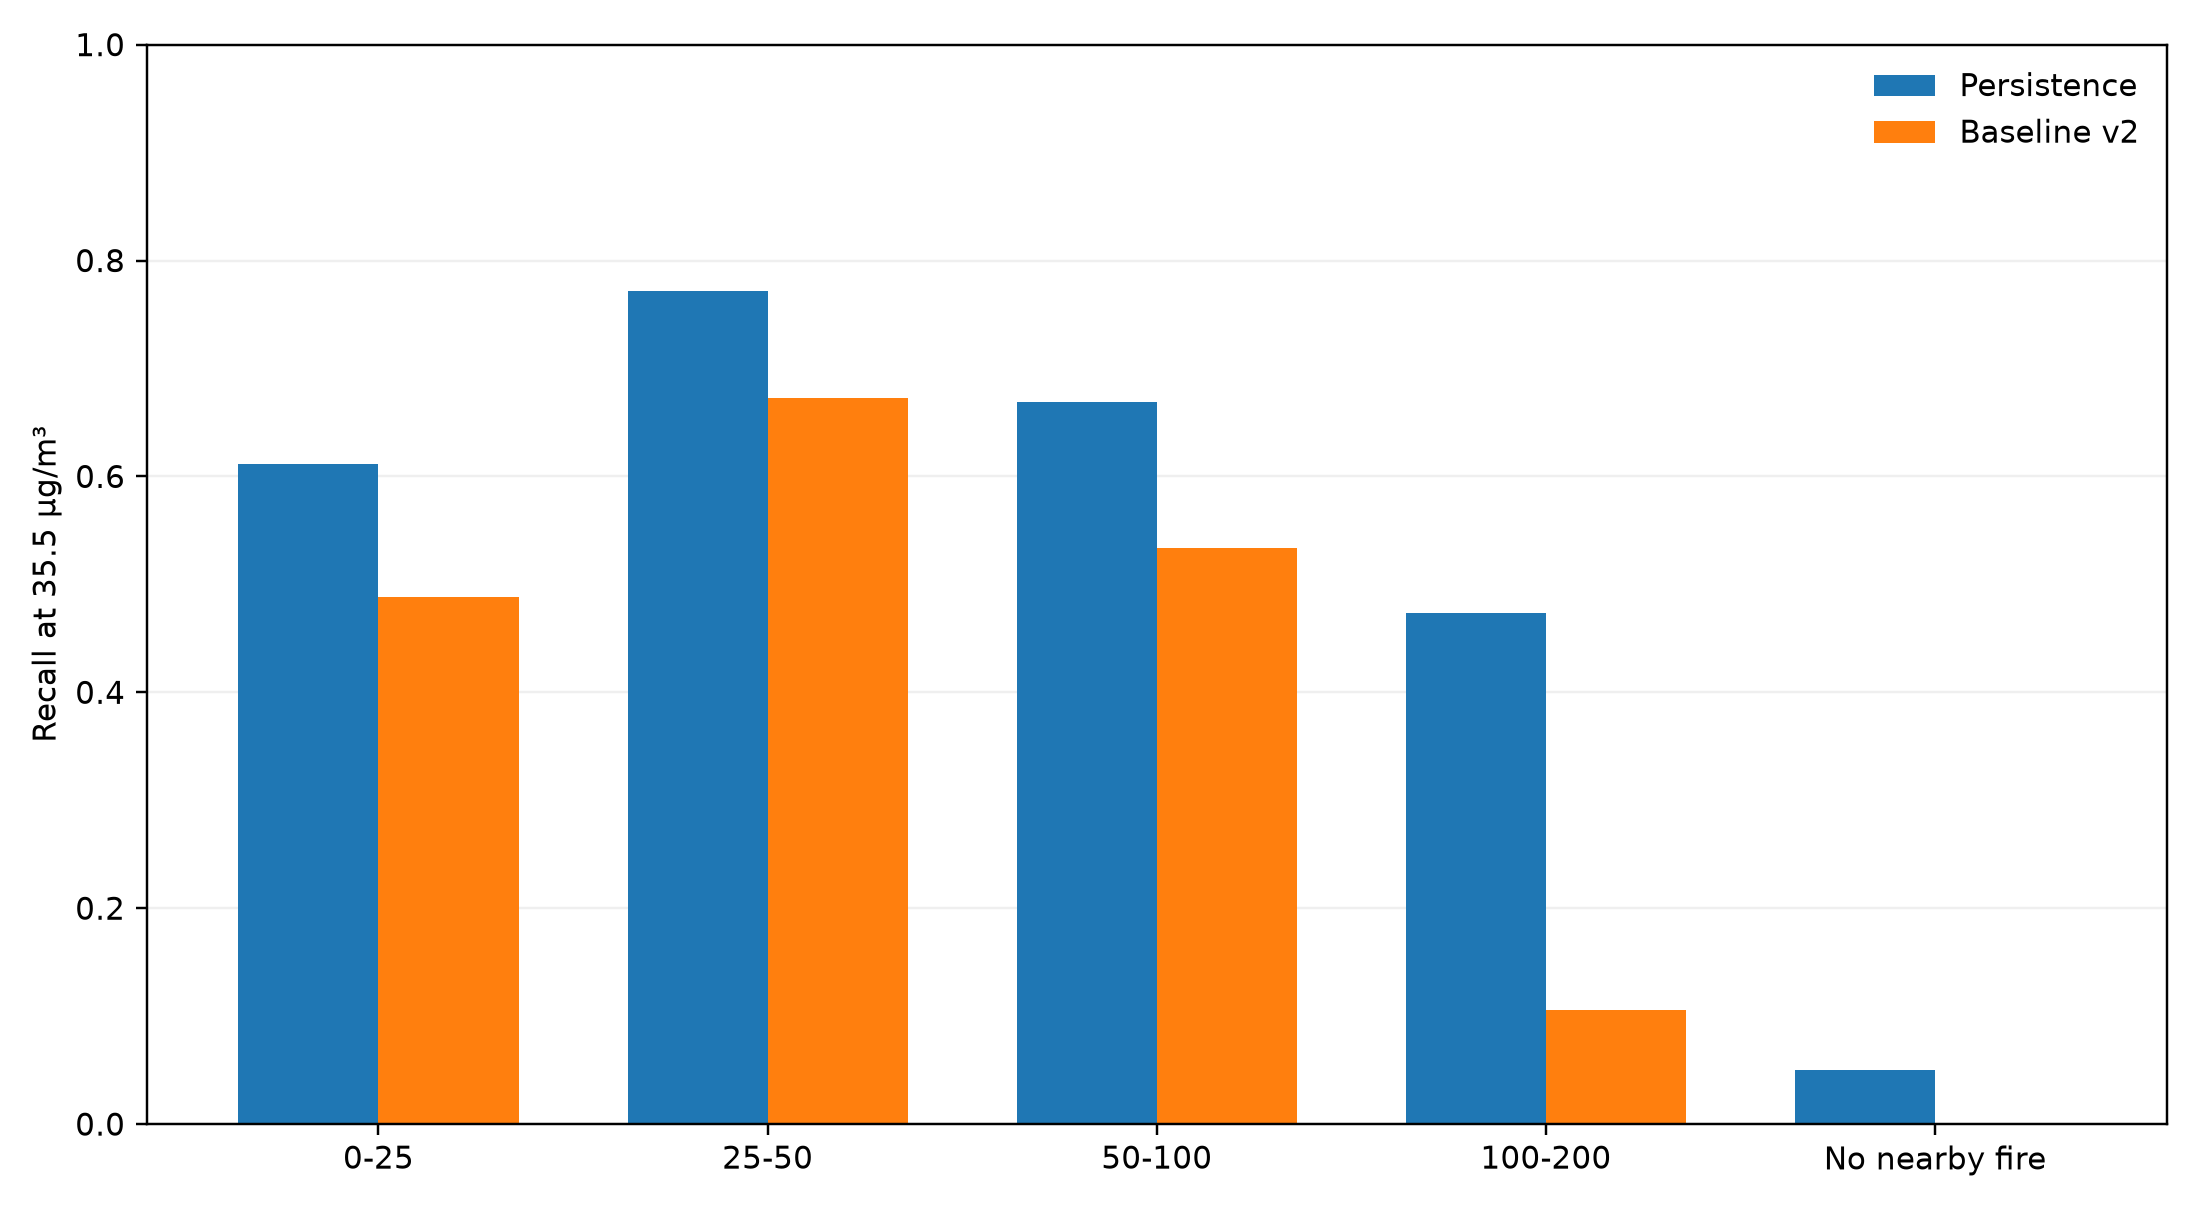
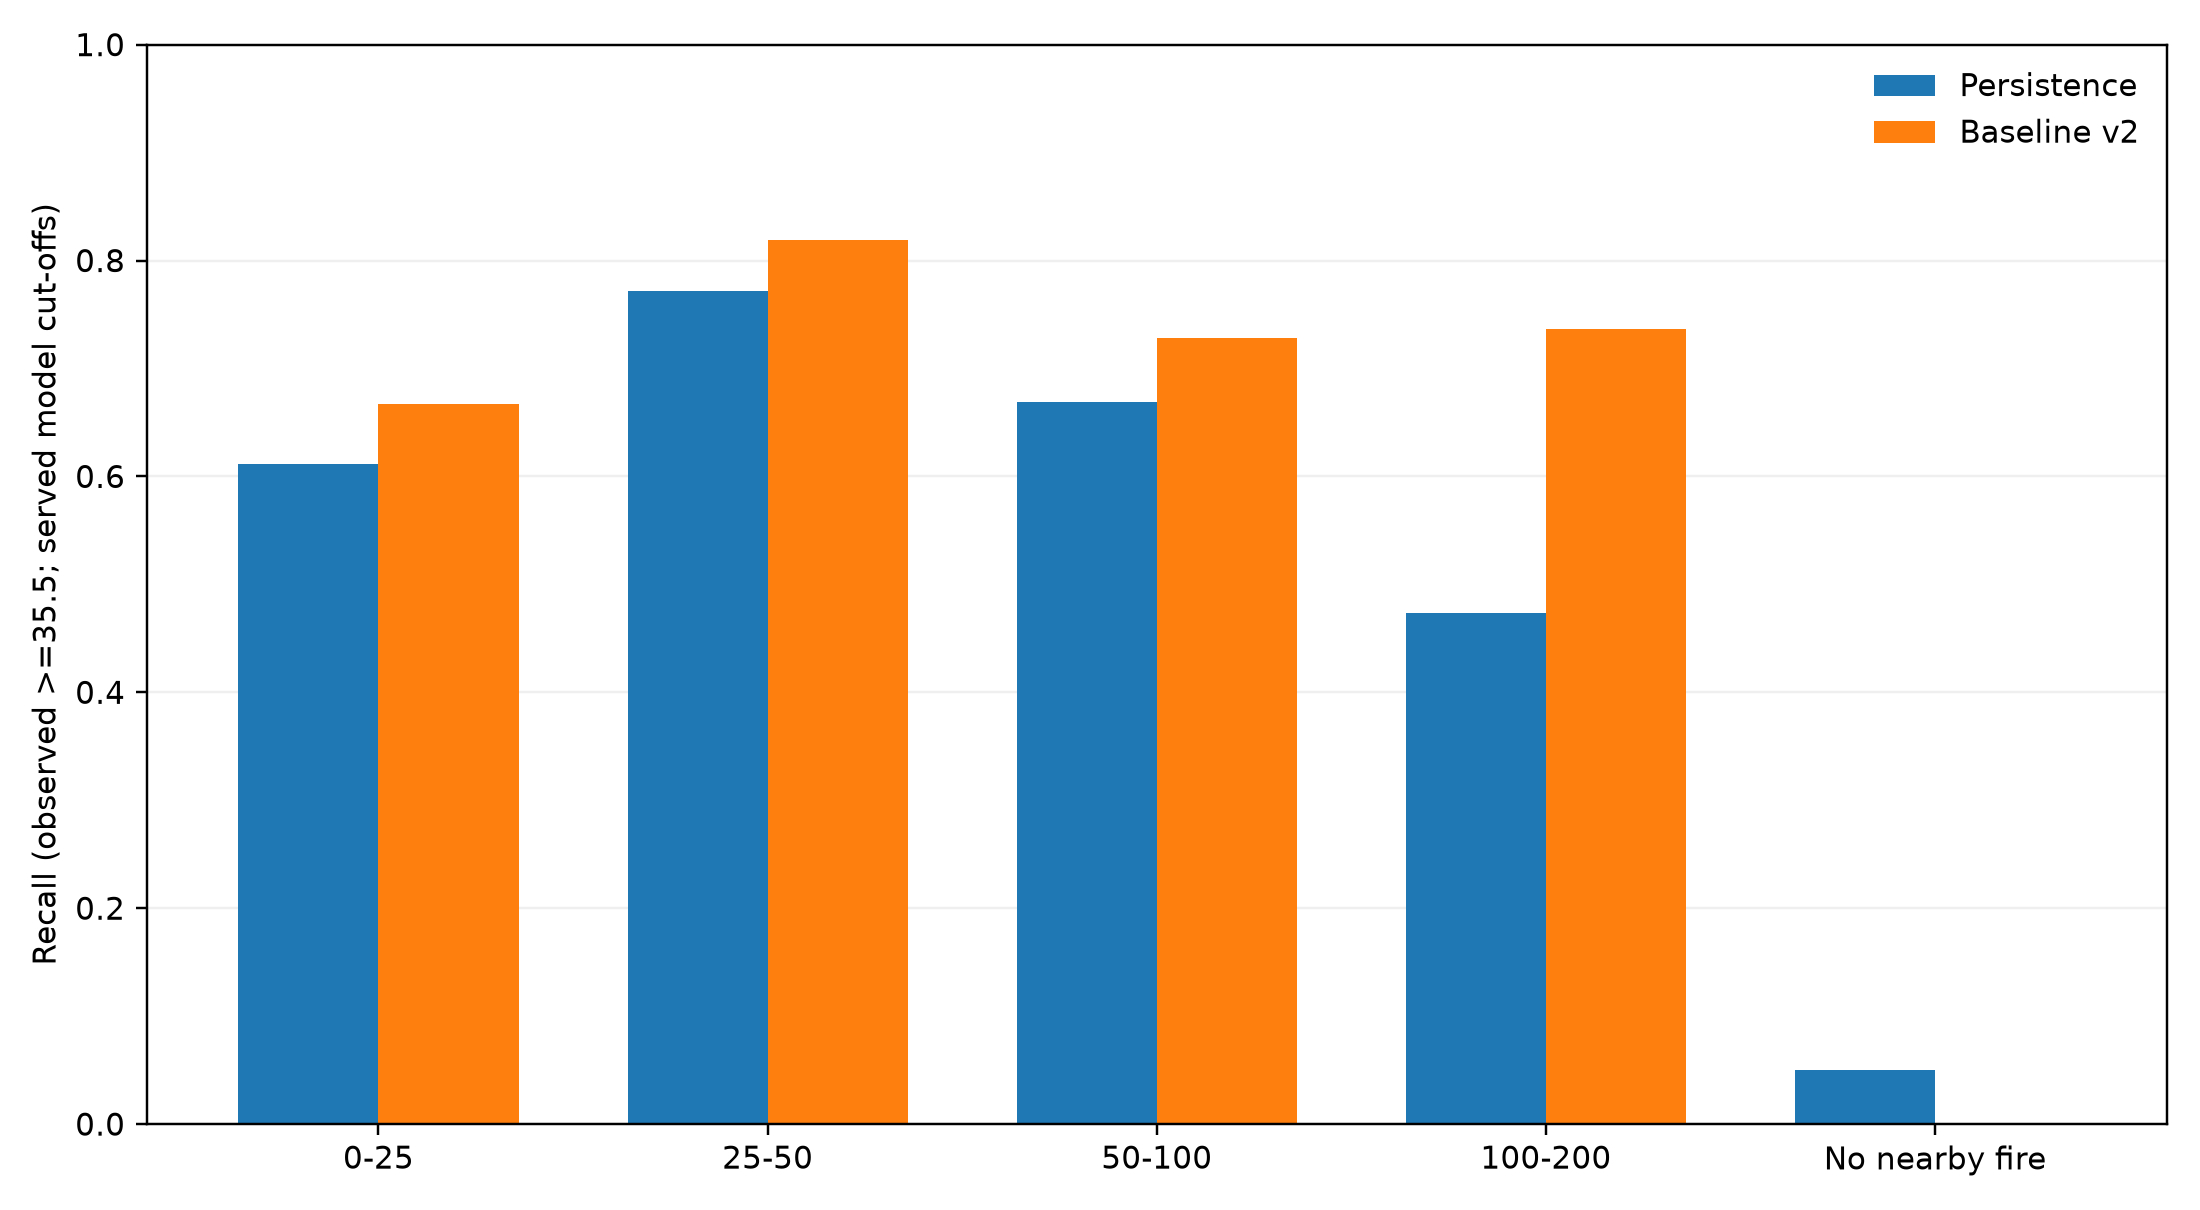
fix(ml03): align error analysis with served thresholds

diff --git a/backend/ml/evaluation/error_analysis.py b/backend/ml/evaluation/error_analysis.py
@@ -6,16 +6,40 @@ Analyze existing predictions without retraining models.
 
 from __future__ import annotations
 
+import json
+from pathlib import Path
+
 import numpy as np
 import pandas as pd
 
 from ml.evaluation.metrics import UNHEALTHY_SG, scores
 
 
+def load_served_thresholds(path: str | Path) -> dict[int, float]:
+    """Load served per-horizon prediction cut-offs from release.json."""
+    with Path(path).open(encoding="utf-8") as handle:
+        metadata = json.load(handle)
+    return {int(h): float(spec["threshold"]) for h, spec in metadata.items()}
+
+
+def detection_scores(y: np.ndarray, pred: np.ndarray, threshold: float) -> dict:
+    """Observed exceedance is always >=35.5; threshold applies to predictions."""
+    truth = y >= UNHEALTHY_SG
+    alarms = pred >= threshold
+    tp = int(np.count_nonzero(truth & alarms))
+    fp = int(np.count_nonzero(~truth & alarms))
+    fn = int(np.count_nonzero(truth & ~alarms))
+    precision = tp / (tp + fp) if tp + fp else 0.0
+    recall = tp / (tp + fn) if tp + fn else 0.0
+    f1 = 2 * precision * recall / (precision + recall) if precision + recall else 0.0
+    return {"precision": precision, "recall": recall, "f1": f1}
+
+
 def summarize_groups(
     frame: pd.DataFrame,
     group_col: str,
     pred_col: str = "v2",
+    prediction_threshold: float = UNHEALTHY_SG,
 ) -> pd.DataFrame:
     """Calculate prediction error metrics for each group."""
 
@@ -48,6 +72,7 @@ def summarize_groups(
 
         metric = scores(y, p)
 
+        served_metrics = detection_scores(y, p, prediction_threshold)
         error = p - y
         positive = y >= UNHEALTHY_SG
 
@@ -62,6 +87,10 @@ def summarize_groups(
             "precision": metric["precision_35_5"],
             "recall": metric["recall_35_5"],
             "f1": metric["f1_35_5"],
+            "prediction_threshold": prediction_threshold,
+            "served_precision": served_metrics["precision"],
+            "served_recall": served_metrics["recall"],
+            "served_f1": served_metrics["f1"],
         })
 
     return pd.DataFrame(results)

diff --git a/backend/scripts/run_ml03_environmental.py b/backend/scripts/run_ml03_environmental.py
@@ -8,9 +8,12 @@ import pandas as pd
 from ml.evaluation.error_analysis import (
     add_analysis_groups,
     summarize_groups,
+    load_served_thresholds,
 )
 
-ROOT = Path("data/release/ml03_extracted")
+DATASET = Path("data/datasets/smokesense_v1/data.parquet")
+PREDICTIONS = Path("data/models/baseline_v2/oof_predictions.parquet")
+RELEASE = Path("data/models/baseline_v2/release.json")
 OUTPUT = Path("data/release/ml03_analysis")
 
 KEY = [
@@ -29,13 +32,9 @@ FEATURES = [
 def main():
     OUTPUT.mkdir(parents=True, exist_ok=True)
 
-    predictions = pd.read_parquet(
-        ROOT / "baseline_v2/oof_predictions.parquet"
-    )
-
-    dataset = pd.read_parquet(
-        ROOT / "smokesense_v1/data.parquet"
-    )
+    predictions = pd.read_parquet(PREDICTIONS)
+    dataset = pd.read_parquet(DATASET)
+    served_thresholds = load_served_thresholds(RELEASE)
 
     # Normalize timestamps before joining.
     for frame in (predictions, dataset):
@@ -89,6 +88,9 @@ def main():
                 six_hour,
                 group_col=group_col,
                 pred_col=model,
+                prediction_threshold=(
+                    served_thresholds[6] if model == "v2" else 35.5
+                ),
             )
 
             filename = f"{group_col}_{model}.csv"
@@ -108,7 +110,9 @@ def main():
                         "mae",
                         "bias",
                         "recall",
+                        "served_recall",
                         "f1",
+                        "served_f1",
                     ]
                 ].to_string(index=False)
             )

diff --git a/backend/tests/test_ml03_error_analysis.py b/backend/tests/test_ml03_error_analysis.py
@@ -9,6 +9,8 @@ from ml.evaluation.error_analysis import (
     summarize_groups,
     add_analysis_groups,
     load_ml02_analysis_data,
+    load_served_thresholds,
+    detection_scores,
 )
 
 
@@ -144,3 +146,32 @@ def test_environmental_group_boundaries():
         "12-18",
         "18-24",
     ]
+
+
+def test_served_threshold_recall():
+    # Observed exceedance cut-off remains 35.5, only the alarm moves.
+    y = np.array([10.0, 40.0, 50.0, 20.0])
+    p = np.array([12.0, 30.0, 37.0, 26.0])
+    fixed = detection_scores(y, p, 35.5)
+    served = detection_scores(y, p, 25.5)
+    assert fixed["recall"] == pytest.approx(0.5)
+    assert served["recall"] == pytest.approx(1.0)
+    assert served["precision"] == pytest.approx(2 / 3)
+
+
+def test_served_cutoff_read_from_release(tmp_path):
+    release = tmp_path / "release.json"
+    release.write_text('{"1": {"threshold": 35.5}, "6": {"threshold": 25.5}}')
+    assert load_served_thresholds(release) == {1: 35.5, 6: 25.5}
+
+
+def test_group_summary_reports_both_cutoffs():
+    df = pd.DataFrame({
+        "group_id": ["A", "A", "A"],
+        "target_pm25": [40.0, 50.0, 10.0],
+        "v2": [30.0, 40.0, 12.0],
+    })
+    r = summarize_groups(df, "group_id", prediction_threshold=25.5).iloc[0]
+    assert r["recall"] == pytest.approx(0.5)
+    assert r["served_recall"] == pytest.approx(1.0)
+    assert r["prediction_threshold"] == pytest.approx(25.5)

diff --git a/backend/scripts/plot_ml03_full.py b/backend/scripts/plot_ml03_full.py
@@ -56,7 +56,7 @@ def grouped_plot(group, order, metric, ylabel, filename):
     ax.grid(axis="y", alpha=0.2)
     ax.set_axisbelow(True)
 
-    if metric == "recall":
+    if metric in {"recall", "served_recall"}:
         ax.set_ylim(0, 1)
 
     fig.tight_layout()
@@ -109,8 +109,8 @@ def main():
         "distance_group",
         ["0-25", "25-50", "50-100",
          "100-200", "No nearby fire"],
-        "recall",
-        "Recall at 35.5 µg/m³",
+        "served_recall",
+        "Recall (observed >=35.5; served model cut-offs)",
         "ml03_distance_recall.png",
     )
 
@@ -125,8 +125,8 @@ def main():
     grouped_plot(
         "time_group",
         ["00-06", "06-12", "12-18", "18-24"],
-        "recall",
-        "Recall at 35.5 µg/m³",
+        "served_recall",
+        "Recall (observed >=35.5; served model cut-offs)",
         "ml03_time_recall.png",
     )
 

diff --git a/docs/ml/error-analysis.md b/docs/ml/error-analysis.md
@@ -23,7 +23,7 @@ The official DATA-04 v1.0.0 release contains:
 
 - 141,954 historical forecast rows.
 - 20 pilot wildfire events.
-- 13 cross-validation groups.
+- 13 cross-validation groups (multiple pilot events share some held-out groups; the 20 event identifiers are not 20 independent CV folds).
 - Forecast horizons of 1, 3, 6, 12, and 24 hours.
 
 This report uses the released baseline-v2 out-of-fold predictions, not newly trained models.
@@ -46,7 +46,8 @@ Detection metrics:
 - Recall.
 - F1.
 
-The operational exceedance threshold is 35.5 µg/m³.
+Observed exceedance is defined as PM2.5 >= 35.5 µg/m³ throughout.
+We report two detection operating points: a **fixed-35.5** comparison in which both models alarm at 35.5, and a **served** comparison in which baseline_v2 alarms at the per-horizon thresholds in `data/models/baseline_v2/release.json` (1/3/6/12/24 h: 35.5/29.5/25.5/21.5/20.0 µg/m³). Persistence always alarms at 35.5. Only the prediction cut-off changes, not the observed exceedance definition. At 1 h, the service uses persistence rather than baseline_v2 because baseline_v2's 1 h MAE is worse.
 
 This numerical threshold is derived from the EPA 2024 PM2.5 AQI breakpoint for the Unhealthy for Sensitive Groups category. The EPA breakpoint applies to 24-hour PM2.5 concentrations; SmokeSense uses the same numerical threshold for evaluating hourly concentration forecasts. Results must not be interpreted as official hourly AQI classifications.
 
@@ -64,33 +65,29 @@ Group-level results are descriptive. Differences between categories do not estab
 
 ### 3.1 Results across forecasting horizons
 
-| Horizon | Persistence MAE | Baseline-v2 MAE | Persistence F1 | Baseline-v2 F1 |
-|---|---:|---:|---:|---:|
-| 1h | 7.576 | 8.007 | 0.826 | 0.813 |
-| 3h | 10.370 | 9.871 | 0.749 | 0.727 |
-| 6h | 12.821 | 11.743 | 0.683 | 0.656 |
-| 12h | 15.088 | 13.067 | 0.614 | 0.545 |
-| 24h | 15.739 | 14.350 | 0.574 | 0.513 |
+| Horizon | Persistence MAE | Baseline-v2 MAE | Persistence F1 (35.5) | v2 F1 (fixed 35.5) | v2 F1 (served) |
+|---|---:|---:|---:|---:|---:|
+| 1h | 7.576 | 8.007 | 0.826 | 0.813 | N/A (serves persistence) |
+| 3h | 10.370 | 9.871 | 0.749 | 0.727 | 0.757 |
+| 6h | 12.821 | 11.743 | 0.683 | 0.656 | 0.694 |
+| 12h | 15.088 | 13.067 | 0.614 | 0.545 | 0.623 |
+| 24h | 15.739 | 14.350 | 0.574 | 0.513 | 0.573 |
 
-MAE is measured in µg/m³.
+MAE is measured in µg/m³. F1 truth is always observed PM2.5 >= 35.5 µg/m³. Values at served cut-offs follow `docs/models/baseline_v2_gate.md` and should be reproduced from `release.json` and the released OOF predictions before poster publication.
 
-Baseline_v2 improves MAE at four of the five horizons, but its F1 is lower than persistence at every horizon.
+Baseline_v2 improves MAE at four of five horizons. It has lower F1 under the **fixed 35.5** alarm rule, but at its **served cut-offs** its F1 is higher at 3, 6, and 12 h and roughly equal at 24 h. At 1 h the service intentionally uses persistence.
 
 ### 3.2 Exceedance recall
 
-| Horizon | Persistence recall | Baseline-v2 recall |
-|---|---:|---:|
-| 1h | 0.826 | 0.761 |
-| 3h | 0.748 | 0.648 |
-| 6h | 0.682 | 0.567 |
-| 12h | 0.612 | 0.426 |
-| 24h | 0.571 | 0.411 |
+| Horizon | Persistence recall (35.5) | v2 recall (fixed 35.5) | v2 recall (served cut-off) |
+|---|---:|---:|---:|
+| 1h | 0.826 | 0.761 | N/A (serves persistence) |
+| 3h | 0.748 | 0.648 | 0.751 |
+| 6h | 0.682 | 0.567 | 0.735 |
+| 12h | 0.612 | 0.426 | 0.682 |
+| 24h | 0.571 | 0.411 | 0.687 |
 
-Baseline_v2 has higher precision than persistence at every horizon, but lower recall.
-
-At six hours, baseline_v2 reduces MAE by approximately 8.4% on the paired evaluation rows while reducing recall by approximately 11.5 percentage points.
-
-This demonstrates that improved average concentration prediction does not necessarily imply improved fixed-threshold exceedance detection.
+At fixed 35.5, baseline_v2 has higher precision but lower recall than persistence at all horizons. At the served 6 h alarm cut-off of 25.5, baseline_v2 **increases** recall to 0.735 compared with persistence at 0.682, while reducing precision (0.657 vs 0.683); F1 is 0.694 vs 0.683. This is an operating-point tradeoff, not a contradiction. These served-threshold figures use a pooled cut-off and should not be confused with strictly fold-specific performance; see the model gate for that limitation.
 
 ## 4. Severe-Smoke Underprediction
 
@@ -125,11 +122,11 @@ Consecutive observations may also be temporally correlated.
 
 ## 5. Environmental Error Analysis
 
-All results in this section use 27,824 paired six-hour forecasts across 20 events.
+All results in this section use 27,824 paired six-hour forecasts across 20 events. MAE and bias are independent of alarm cut-off. The historical recall values in the tables below use the **fixed 35.5** prediction cut-off, while the updated recall figures are generated with baseline_v2's **served six-hour 25.5** cut-off and persistence's 35.5 cut-off. The generated CSVs include both `recall` (fixed) and `served_recall`.
 
 ### 5.1 Distance to wildfire
 
-| Distance | Baseline-v2 MAE | Baseline-v2 recall | Persistence recall |
+| Distance | Baseline-v2 MAE | Baseline-v2 recall (fixed 35.5) | Persistence recall (35.5) |
 |---|---:|---:|---:|
 | 0-25 km | 13.02 | 0.489 | 0.611 |
 | 25-50 km | 10.97 | 0.672 | 0.772 |
@@ -137,7 +134,7 @@ All results in this section use 27,824 paired six-hour forecasts across 20 event
 | 100-200 km | 5.67 | 0.105 | 0.474 |
 | No nearby fire | 7.40 | 0.000 | 0.050 |
 
-Within 25 km of a fire, baseline_v2 has MAE of 13.02 µg/m³ and recall of 48.9%.
+Within 25 km of a fire, baseline_v2 has MAE of 13.02 µg/m³ and **fixed-35.5** recall of 48.9%.
 
 The 100-200 km and no-nearby-fire categories contain only 19 and 20 observed exceedances, respectively. Their recall estimates are less stable.
 
@@ -145,7 +142,7 @@ The 100-200 km and no-nearby-fire categories contain only 19 and 20 observed exc
 
 ### 5.2 Wind alignment
 
-| Wind category | Baseline-v2 MAE | Baseline-v2 bias | Baseline-v2 recall |
+| Wind category | Baseline-v2 MAE | Baseline-v2 bias | Baseline-v2 recall (fixed 35.5) |
 |---|---:|---:|---:|
 | Crosswind | 10.65 | -3.97 | 0.575 |
 | Downwind | 11.17 | -5.68 | 0.552 |
@@ -164,14 +161,14 @@ Negative baseline-v2 bias occurs in every wind category.
 
 ### 5.3 Local solar hour
 
-| Issue-time group | Baseline-v2 MAE | Baseline-v2 recall |
+| Issue-time group | Baseline-v2 MAE | Baseline-v2 recall (fixed 35.5) |
 |---|---:|---:|
 | 00-06 | 12.93 | 0.583 |
 | 06-12 | 12.27 | 0.578 |
 | 12-18 | 11.47 | 0.531 |
 | 18-24 | 10.32 | 0.576 |
 
-The 12-18 group has the lowest baseline-v2 recall.
+At the fixed-35.5 alarm cut-off, the 12-18 group has the lowest baseline-v2 recall.
 
 The time categories represent the local solar hour at forecast issue time, rather than forecast target time.
 
@@ -184,10 +181,15 @@ PE-012 is particularly notable:
 | Metric | Persistence | Baseline v2 |
 |---|---:|---:|
 | MAE | 17.14 | 17.68 |
-| Recall | 0.721 | 0.569 |
+| Recall (fixed 35.5) | 0.721 | 0.569 |
+| Recall (served cut-off) | 0.721 | 0.783 |
+| F1 (fixed 35.5) | 0.721 | 0.682 |
+| F1 (served cut-off) | 0.721 | 0.737 |
 | Bias | -0.01 | -11.97 |
 
-For this event, baseline_v2 performs worse than persistence on both MAE and exceedance recall.
+For PE-012, baseline_v2 performs worse than persistence on MAE and fixed-threshold recall. At its served 25.5 µg/m³ cut-off, however, baseline_v2 achieves higher recall and F1. This illustrates why operational threshold selection must be distinguished from regression accuracy.
+
+PE-014 contains no observed exceedances, so its recall is undefined. A zero in the generated served-recall output should not be interpreted as measured detection failure for this event.
 
 Event-level differences suggest that pooled evaluation metrics can conceal important variability.
 
@@ -225,7 +227,7 @@ The ML-02 experiment and full baseline-v2 evaluation use different experimental 
 
 ## 7. Main Findings
 
-1. **Regression accuracy and exceedance detection diverge.** Baseline_v2 reduces MAE at four of five horizons but has lower F1 and recall than persistence at every horizon.
+1. **Regression accuracy and threshold choice must be evaluated separately.** Baseline_v2 reduces MAE at four of five horizons and trades recall for precision at a fixed 35.5 cut-off. At the served 6 h cut-off of 25.5, however, baseline_v2 recall is 0.735 versus persistence 0.682, with F1 0.694 versus 0.683. The 1 h service falls back to persistence.
 
 2. **Severe-smoke underprediction is substantial.** For 648 severe six-hour observations across 14 events, baseline_v2 has a mean bias of -127.19 µg/m³ and underpredicts 95.99% of observations.
 
@@ -270,8 +272,9 @@ Official source:
 
 Primary artifacts:
 
-- `data/release/ml03_extracted/smokesense_v1/data.parquet`
-- `data/release/ml03_extracted/baseline_v2/oof_predictions.parquet`
+- `data/datasets/smokesense_v1/data.parquet`
+- `data/models/baseline_v2/oof_predictions.parquet`
+- `data/models/baseline_v2/release.json` (served cut-offs)
 
 ML-03 scripts:
 
@@ -293,6 +296,6 @@ Figures:
 
 Validation:
 
-- Six ML-03 unit tests passed.
+- Run `python -m pytest tests/test_ml03_error_analysis.py -v` (includes three new cut-off tests).
 - Environmental analysis script completed successfully.
 - Ruff checks passed for the analysis and plotting scripts.
